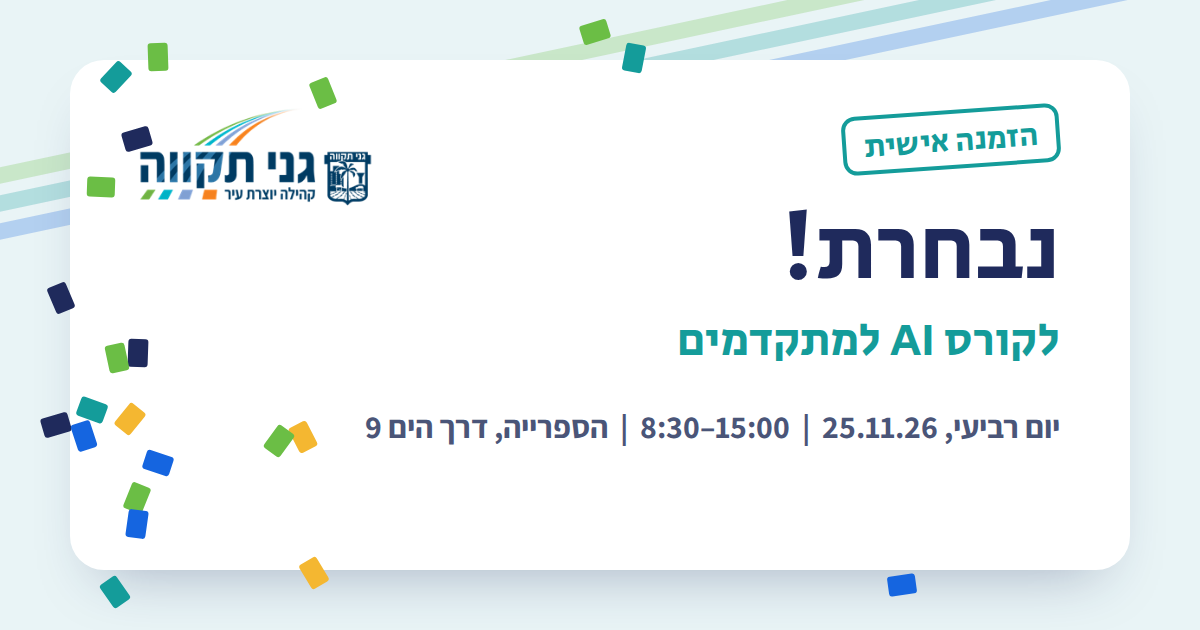
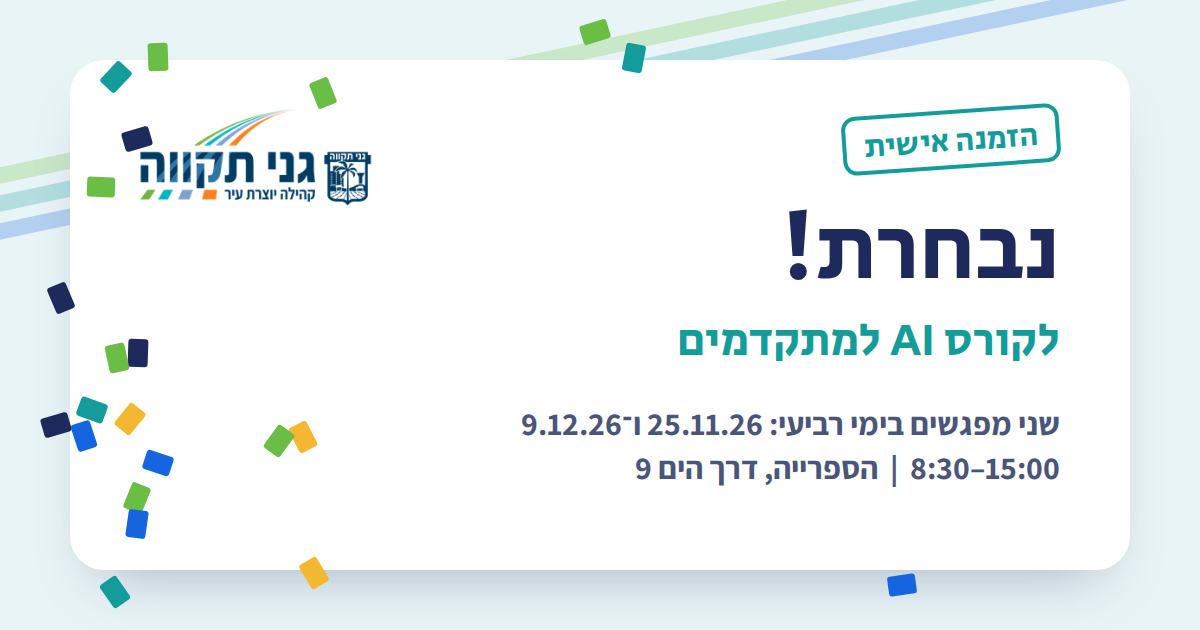
Add files via upload

Changed region(s): [[0.5242, 0.7238, 0.8942, 0.7841], [0.3083, 0.6333, 0.8942, 0.6937]]

diff --git a/index.html b/index.html
@@ -9,8 +9,8 @@
 <!-- תצוגה מקדימה בוואטסאפ ובמייל. יש להחליף את USERNAME בשם המשתמש בגיטהאב -->
 <meta property="og:type" content="website">
 <meta property="og:title" content="הזמנה אישית: קורס AI למתקדמים">
-<meta property="og:description" content="עיריית גני תקווה | יום רביעי, 25.11.26 | 8:30–15:00 | הספרייה, דרך הים 9">
-<meta property="og:image" content="https://githbgt.github.io/ai-course/og.png">
+<meta property="og:description" content="עיריית גני תקווה | שני מפגשים בימי רביעי: 25.11.26 ו־9.12.26 | 8:30–15:00 | הספרייה, דרך הים 9">
+<meta property="og:image" content="https://USERNAME.github.io/ai-course/og.png">
 <meta property="og:image:width" content="1200">
 <meta property="og:image:height" content="630">
 <meta property="og:locale" content="he_IL">
@@ -329,15 +329,15 @@
     </h1>
 
     <p class="lead" id="lead">בחרנו מספר מצומצם של עובדים ועובדות להעמקה בעבודה עם בינה מלאכותית, וההזמנה הזו מיועדת לך.</p>
-    <p class="topics">יום אחד, מעשי ומרוכז: Copilot בעבודה היומיומית, סוכני AI, ויצירת אינפוגרפיקה ומצגות בעזרת AI.</p>
+    <p class="topics">שני מפגשים מעשיים ומרוכזים: Copilot בעבודה היומיומית, סוכני AI, ויצירת אינפוגרפיקה ומצגות בעזרת AI.</p>
   </section>
 
   <div class="tear" aria-hidden="true"><span class="notch"></span></div>
 
   <section class="stub">
     <dl class="when">
-      <div><dt>מתי</dt><dd>יום רביעי<br>25.11.26</dd></div>
-      <div><dt>שעות</dt><dd><span dir="ltr">8:30–15:00</span></dd></div>
+      <div><dt>ימי רביעי</dt><dd>25.11.26<br>9.12.26</dd></div>
+      <div><dt>שעות (בשני המפגשים)</dt><dd><span dir="ltr">8:30–15:00</span></dd></div>
       <div><dt>איפה</dt><dd>הספרייה,<br>דרך הים 9</dd></div>
     </dl>
 
@@ -388,7 +388,16 @@
       "DTSTAMP:20261014T000000Z",
       "DTSTART:20261125T063000Z",
       "DTEND:20261125T130000Z",
-      "SUMMARY:קורס AI למתקדמים - עיריית גני תקווה",
+      "SUMMARY:קורס AI למתקדמים (מפגש 1) - עיריית גני תקווה",
+      "LOCATION:הספרייה\\, דרך הים 9\\, גני תקווה",
+      "DESCRIPTION:להביא: מחשב נייד\\, מטען ופרטי התחברות למיקרוסופט.\\nהרשמה: https://community.ganeytikva.org.il/Gantik_staff/287475",
+      "END:VEVENT",
+      "BEGIN:VEVENT",
+      "UID:ai-course-20261209@ganeytikva",
+      "DTSTAMP:20261014T000000Z",
+      "DTSTART:20261209T063000Z",
+      "DTEND:20261209T130000Z",
+      "SUMMARY:קורס AI למתקדמים (מפגש 2) - עיריית גני תקווה",
       "LOCATION:הספרייה\\, דרך הים 9\\, גני תקווה",
       "DESCRIPTION:להביא: מחשב נייד\\, מטען ופרטי התחברות למיקרוסופט.\\nהרשמה: https://community.ganeytikva.org.il/Gantik_staff/287475",
       "END:VEVENT",
